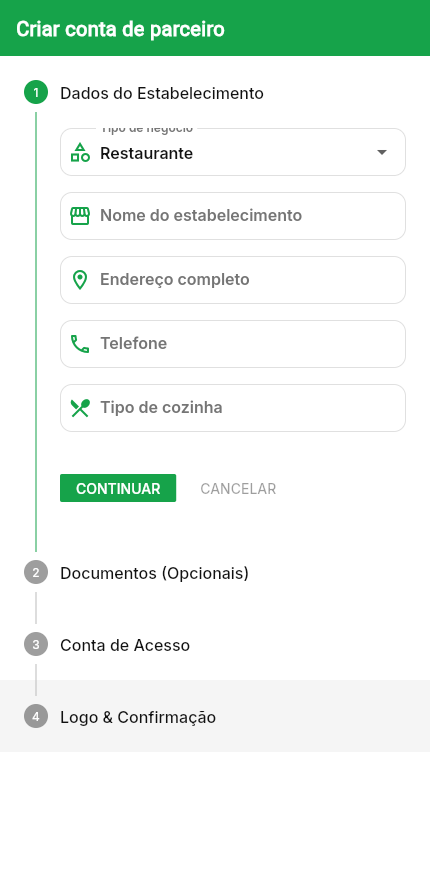
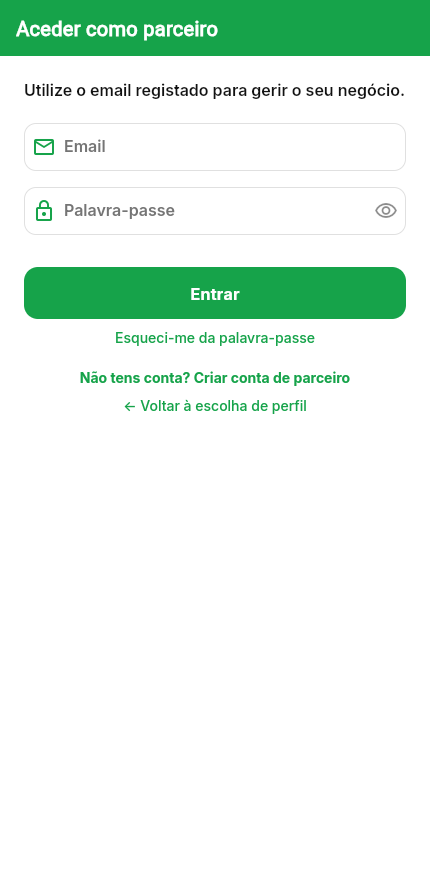
docs: relatorio de uma conta todos os perfis, com as seis provas pela web
Claude-Session: https://claude.ai/code/session_0186akWGKyTTqHts1jPtjiJL

diff --git a/.claude/.ai/reports/uma-conta-todos-os-perfis-2026-08-29.md b/.claude/.ai/reports/uma-conta-todos-os-perfis-2026-08-29.md
@@ -1,0 +1,240 @@
+# Uma conta, uma pessoa, todos os perfis — e nenhum ecrã preso
+
+Data: 29 de Agosto de 2026.
+
+---
+
+## Onde parei
+
+As seis provas estão feitas, com fotografia, pela web. O `PADRAO_BORA.md` levou
+as duas regras. A conta de remendo do Waldyr foi apagada e a base ficou limpa,
+provado por consulta.
+
+Duas coisas que tens de saber já:
+
+**A causa não era uma, eram três.** Corrigir o login não chegava. Só se
+descobriu porque testei mesmo, ecrã a ecrã.
+
+**Encontrei um defeito meu na correcção, a meio da prova**, e outro na prova em
+si — dei uma coisa por boa que não era. Ambos estão contados em baixo, sem
+enfeite.
+
+---
+
+## Todos os acessos
+
+As palavras-passe continuo a não as ter, e a recuperação por email funciona.
+
+Parceiros: `goola@bora.app`, `mr.kebab@bora.app`, `sabores.brasil@bora.app`,
+`saboresde.casa@bora.app`, `ouro.prata@bora.app`, e `beunique@bora.app`,
+desligada por tua ordem.
+
+Estafetas e motoristas: `boraappbora@gmail.com`, que é a tua;
+`nilofulfaro@gmail.com`, `ramosjuniorwaldyr@gmail.com` — o cliente real desta
+história, que agora tem `client`, `delivery` e `driver` na mesma conta —,
+`valdemirvasconcelos28@gmail.com`, `vanessaerika809@gmail.com` e
+`test_courier@boraapp.test`.
+
+Lavador de teste: `lava.leva@bora.app` com `LavaLeva!2026`.
+
+Clientes de teste: `demo.cliente@bora.app` e `e2e_client_a@boraapp.test`. A tua
+conta de cliente é `nilofulfarotuga@gmail.com`, que é também a de admin.
+
+---
+
+## O que estava mal, e eram três coisas
+
+**A primeira, a que apanhaste nos registos.** Os três ecrãs de entrar liam o
+campo `bora_role` do metadata — que é **um campo só**, o do último modo em que
+a app ficou — e faziam `signOut` quando não batia certo com a porta. O Waldyr
+tinha `bora_role: driver` porque se candidatara a estafeta; ao entrar como
+cliente, a app punha-o fora no mesmo segundo. Quatro vezes, com a palavra-passe
+certa das quatro.
+
+Agora: **nunca se faz `signOut` por causa de papel**. O cliente não é recusado
+nunca — se lhe falta a linha, cria-se e segue. O estafeta e o parceiro
+confirmam-se pelo perfil e pelo `user_roles`, que é a única fonte que aguenta
+acumulação. E um erro de rede não fecha a porta a ninguém.
+
+**A segunda, que só apareceu ao testar.** O ecrã de escolha de perfil fazia
+`logout()` em **todos** os botões, mesmo com sessão aberta. Quem já estava
+dentro e só queria mudar de perfil era posto fora e obrigado a escrever a
+palavra-passe. Se eu tivesse corrigido só o login, tu terias continuado a
+escrever a palavra-passe a cada troca.
+
+**A terceira, que só apareceu na segunda passagem.** Corrigi o ecrã de escolha
+e a troca continuou a pedir a palavra-passe. A razão: o botão "Mudar modo",
+nos **três** ecrãs, fazia `logout()` **antes** de chegar ao ecrã de escolha —
+quando a minha correcção corria, já não havia sessão nenhuma para reaproveitar.
+Passa a largar só a conta activa em memória; a sessão fica.
+
+E ainda: "Candidatura em análise" era uma parede com um único botão, "Sair".
+Agora tem "Usar a app como cliente". Havia **dois** ecrãs de "em análise" e eu
+pus o botão no errado — descobri com a fotografia do certo à minha frente.
+
+A porta do parceiro ganhou o "Voltar à escolha de perfil" que as outras duas já
+tinham. E as três dizem agora a quem se destinam.
+
+---
+
+## O defeito que eu próprio criei, e apanhei a tempo
+
+Ao deixar de fazer `logout` no ecrã de escolha, abri um buraco: a função que
+troca de perfil montava a conta de parceiro a partir do metadata e devolvia
+"sim" a **qualquer pessoa**. Com o logout pelo meio isso nunca se via; sem ele,
+um cliente que carregasse em "Sou Parceiro" caía no assistente de criar loja,
+que para ele é um beco.
+
+Está fechado: a porta só abre a quem tem o papel.
+
+---
+
+## O falso positivo da minha própria prova
+
+Fotografei um "estafeta pendente a usar a app como cliente" e dei-o por bom. Ao
+verificar **quem estava mesmo na sessão**, o email era `guest@bora.com`.
+
+A porta "Sou Cliente" entra logo como convidado — não há ecrã de entrar ali. O
+que eu tinha fotografado era a app a funcionar como convidado, e teria passado
+por prova sem ninguém dar por isso. O login de cliente está no separador
+Perfil, depois de terminar a sessão de convidado. É lá que o Waldyr batia.
+
+Refiz as duas provas por esse caminho e passei a **confirmar sempre o email da
+sessão** antes de dar qualquer coisa por provada. Uma fotografia de um ecrã não
+diz quem está lá dentro.
+
+---
+
+## O ecrã preso à espera do GPS
+
+Aquele tinha `try/catch` e um recurso que centrava na Guarda — parecia coberto.
+Não estava: `getCurrentPosition` **não devolve e não rebenta** quando a posição
+nunca chega. O `catch` nunca corria, a variável nunca deixava de ser nula, e o
+carregador rodava para sempre, sem uma palavra.
+
+Agora há limite de tempo em cada espera, e a recusa mostra um ecrã que diz
+"Precisamos de saber onde estás", explica porquê, e dá "Tentar outra vez" e
+"Abrir as definições". Corrigi o mesmo `await` sem limite no ecrã do motorista
+TVDE, onde prendia o arranque do fluxo de posição inteiro.
+
+Procurei o mesmo padrão nos outros perfis: o serviço de localização partilhado
+já tinha limite de tempo, e a limpeza e a lavagem não bloqueiam por posição.
+
+---
+
+## O painel dos papéis
+
+`admin_add_user_role` tinha a lista de papéis **cravada no corpo** e recusava
+`delivery` e `washer`, que existem desde 28/08 — quem tentasse dar o papel de
+lavador pelo painel levava "papel inválido". Passou a delegar nas funções que
+lêem a lista do `CHECK` da própria tabela, e que travam a remoção de quem tem
+trabalho a decorrer. Uma implementação, não duas.
+
+`admin_user_role_flags` mostrava o estado de dois dos cinco papéis; passa a
+mostrar os cinco. E a ficha de cada pessoa ganhou entrada directa para os
+papéis dela.
+
+---
+
+## As seis provas
+
+Todas em `.claude/.ai/provas/perfis-2026-08-29/`, num ecrã de telemóvel.
+
+**Um — estafeta pendente a usar a app como cliente.** `SESSAO =
+prova.multi@bora.app`, com a candidatura de estafeta em `pending`. Antes da
+correcção era exactamente aqui que a app o deitava fora.
+`01-estafeta-pendente-a-usar-como-cliente.png`
+
+**Dois — a mesma conta a trocar para estafeta sem palavra-passe.** O email da
+sessão é o mesmo antes e depois (`prova.multi@bora.app`), o que prova que não
+houve login novo. Caiu no "Conta em análise", que é o correcto para quem está
+pendente — e esse ecrã tem agora o botão de voltar a cliente.
+`02-trocou-para-estafeta-sem-senha.png`
+
+**Três — conta de parceiro a entrar como cliente.** `SESSAO =
+prova.loja@bora.app`. `03-parceiro-a-usar-como-cliente.png`
+
+**Quatro — o botão de voltar na porta do parceiro.** "← Voltar à escolha de
+perfil", como nas outras duas. `04-porta-do-parceiro-com-voltar.png`
+
+**Cinco — recusar a localização.** Em vez do carregador eterno, a explicação em
+português com os dois botões. `05-sem-localizacao.png`
+
+**Seis — os registos de autenticação.** Das contas de prova, nesta sessão de
+testes: **cinco logins, zero logouts**. O padrão do Waldyr era login seguido de
+logout no mesmo segundo, quatro vezes.
+
+```
+05:56:26  prova.loja@bora.app    login
+06:11:22  prova.multi@bora.app   login
+06:13:09  prova.loja@bora.app    login
+06:14:56  prova.multi@bora.app   login
+06:20:15  prova.multi@bora.app   login
+logins: 5   logouts: 0
+```
+
+E as três portas, com as legendas novas, em `00-as-tres-portas.png`.
+
+---
+
+## O remendo e a limpeza
+
+A conta `ramosjuniorwaldyr+cliente@gmail.com` não tinha **nada** — nem pedidos,
+nem papéis, nem carteira, nem tokens. Não havia o que fundir: apaguei-a. A conta
+principal dele ficou com `client`, `delivery` e `driver`, e o email normal volta
+a servir para tudo.
+
+As contas que criei para provar foram apagadas. Confirmado por consulta:
+
+```
+contas de prova            0
+conta +cliente do Waldyr   0
+drivers de prova           0
+cleaners de prova          0
+washers de prova           0
+papeis orfaos              0
+```
+
+Ficam na base três contas de teste antigas, de missões anteriores, que não são
+minhas de hoje e não toquei: `teste.lavagem@bora.app` (27/08, criada pelo guião
+da lavagem), `teste.festas@bora.app` (25/08) e `teste-percurso-20260823@bora.app`.
+Diz se queres que desapareçam.
+
+---
+
+## Uma coisa que te trava, e é do PC
+
+**O disco encheu a meio do trabalho — zero bytes livres.** Foi por isso que uma
+corrida de testes rebentou. Limpei só o balde 1, o que volta sozinho: caches do
+Chrome e do Edge, as pastas `build/`, e os browsers do Playwright que não uso —
+uso o Chrome do sistema. Ficaram 2,7 GB.
+
+Não toquei em fotos, exports, transferências nem no BoraStudio.
+
+O que ainda ocupa e é decisão tua: o **NDK do Android**, 2,12 GB, em
+`AppData\Local\Android\Sdk\ndk`. Os builds de Android correm no CI, não aqui —
+mas apagá-lo é lento de repor na tua ligação. Diz se queres.
+
+---
+
+## Verificações
+
+`flutter analyze` com zero erros. Os testes passam todos — trezentos e
+dezasseis. As migrações foram aplicadas e verificadas por consulta. Tudo
+publicado pelo CI e provado contra o endereço público, comparando o ficheiro
+servido antes e depois de cada correcção.
+
+Nada do que fiz toca em preços, comissões, tokens, despacho,
+`quote_order_pricing`, `partner_shelf_price` nem no `versionCode`.
+
+---
+
+## Por ordem, para a seguir
+
+Primeiro, o flyer pode circular: quem for estafeta ou lojista já consegue pedir
+com a mesma conta.
+
+Segundo, decidir o NDK e as três contas de teste antigas.
+
+Terceiro, o que ficou de trás: o cartão da limpeza e da lavagem pelo caminho
+provado das entregas, os ladrilhos, e o site do Mr Kebab.
